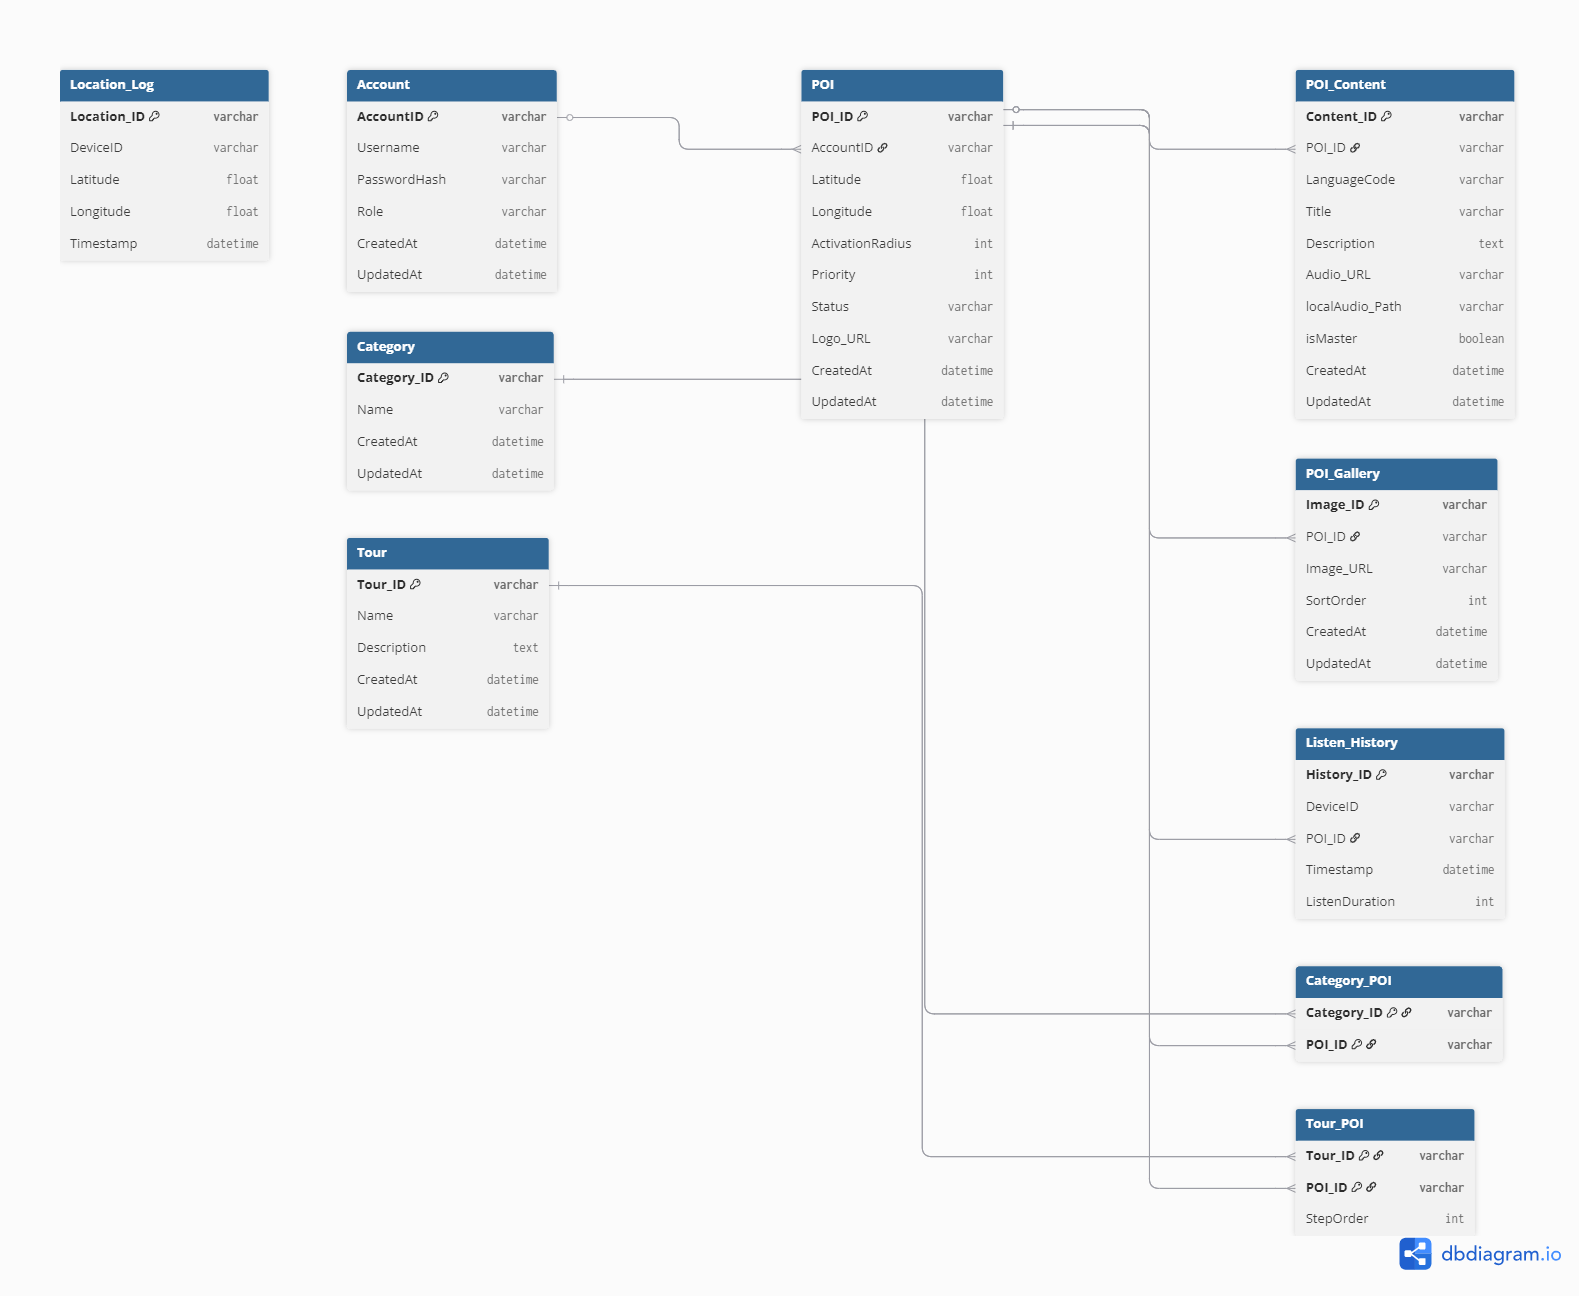
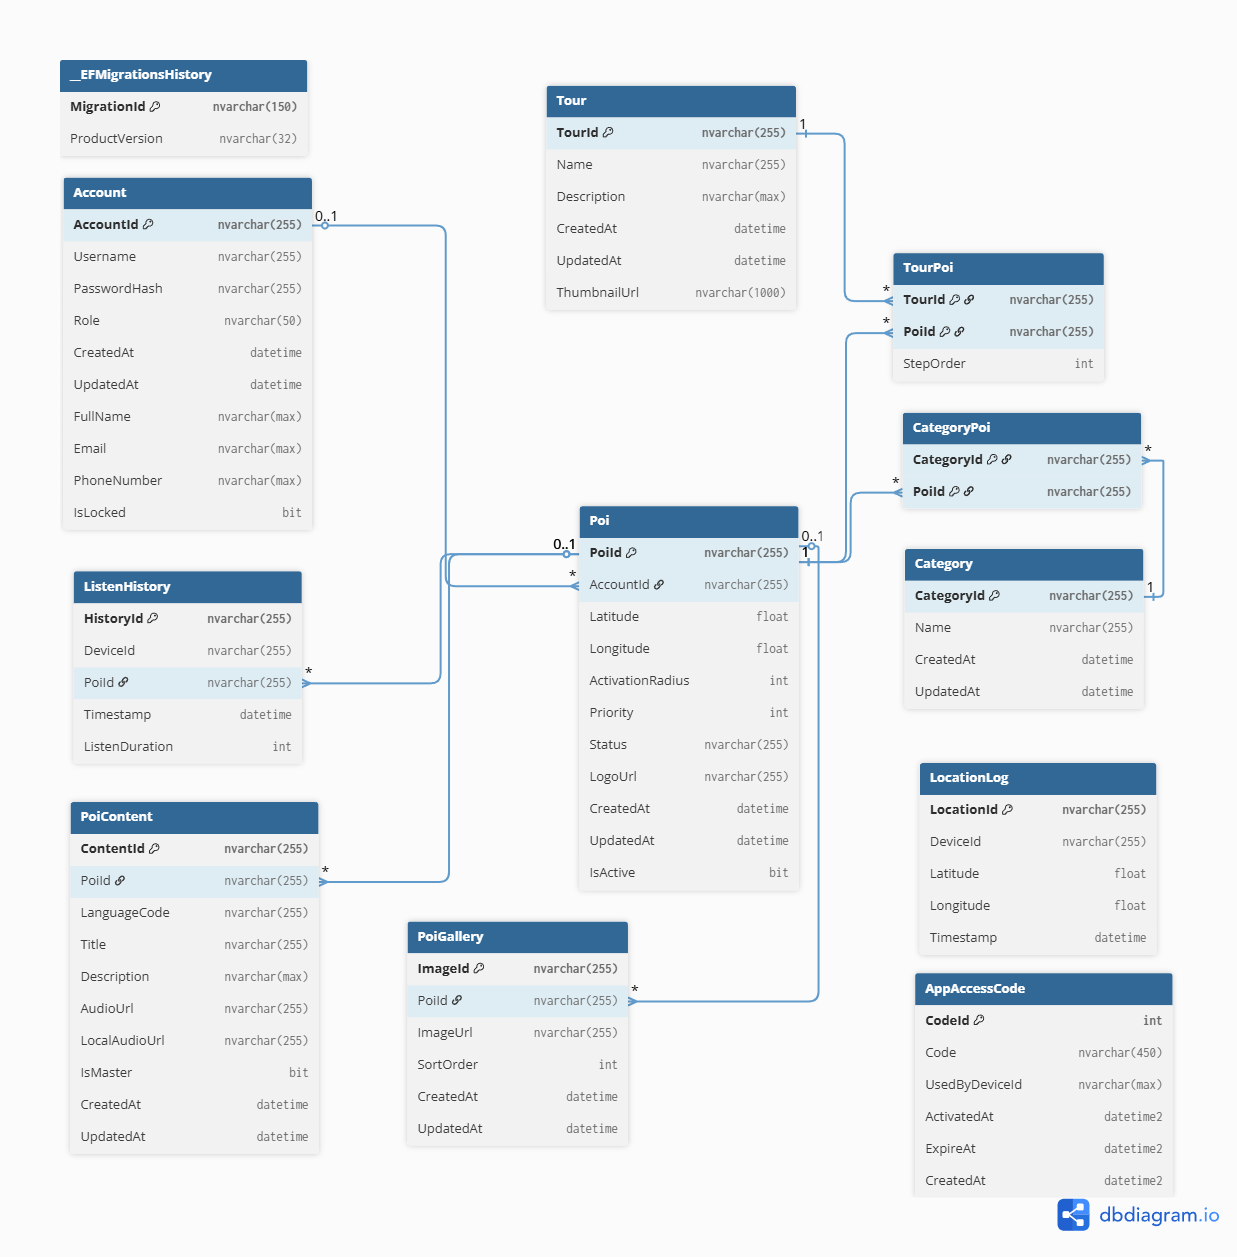
feat: update thêm ảnh cho PRD.md

diff --git a/api/Repositories/PoiRepository.cs b/api/Repositories/PoiRepository.cs
@@ -21,7 +21,7 @@ namespace Server.Repositories
                 .ToListAsync();
 
         /// <summary>
-        /// Tìm kiếm POI theo từ khóa (title/description) và/hoặc tên category.
+        /// Tìm kiếm POI theo từ khóa (title) và/hoặc tên category.
         /// Case-insensitive, chỉ trả về POI active/published.
         /// </summary>
         public async Task<List<Poi>> SearchAsync(string? query, string? category)
@@ -42,7 +42,7 @@ namespace Server.Repositories
 
             var pois = await q.OrderBy(p => p.Priority).ToListAsync();
 
-            // Filter theo title/description trong contents (sau khi load — EF không support full-text trên nvarchar(max) tốt)
+            // Filter theo title trong contents (sau khi load — EF không support full-text trên nvarchar(max) tốt)
             if (!string.IsNullOrWhiteSpace(query))
             {
                 var lower = query.ToLower();
